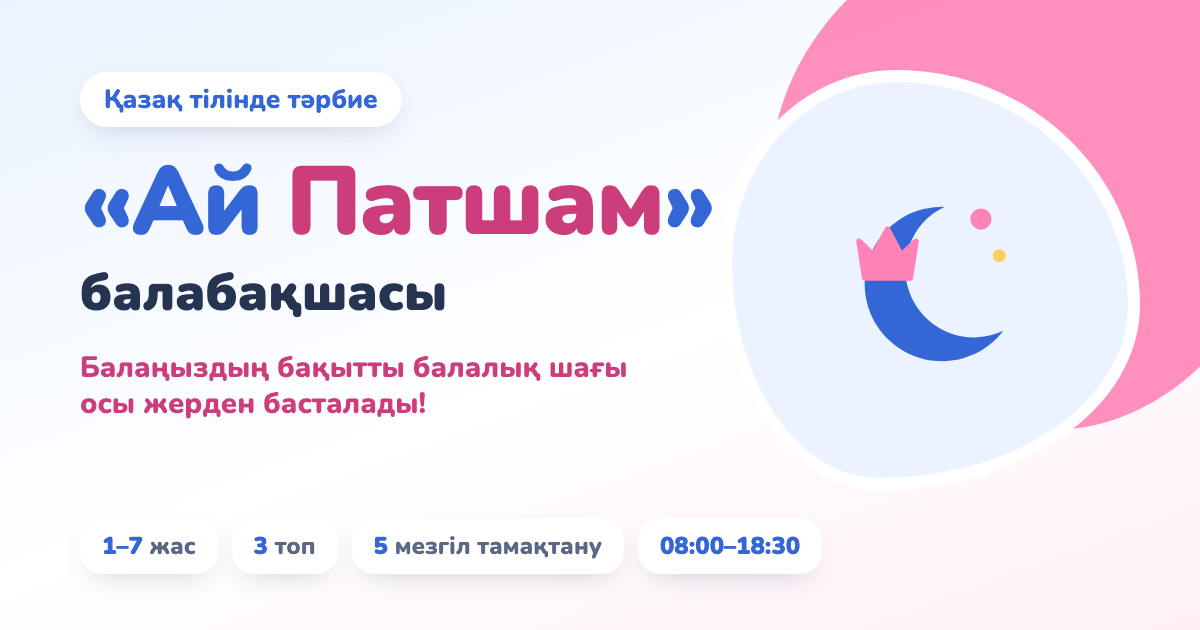
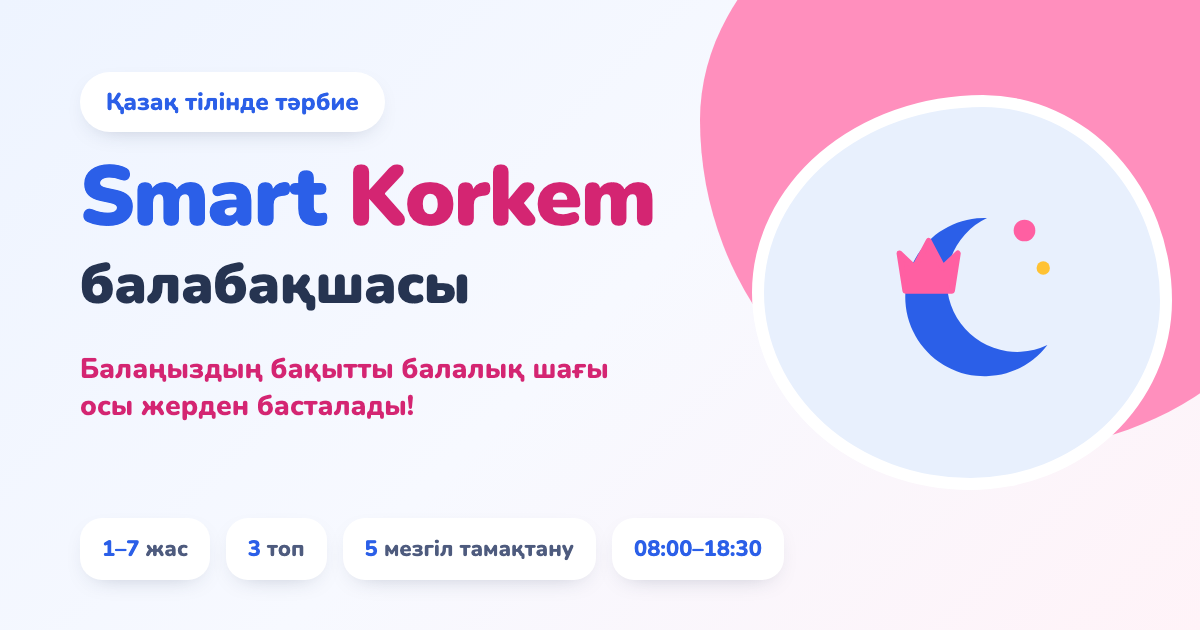
Add kindergarten photos and update gallery

diff --git a/src/data/content.ts b/src/data/content.ts
@@ -96,6 +96,8 @@ export type Dictionary = {
   footer: {
     tagline: string;
     legal: string;
+    /** Атаудың астындағы жазу: «балабақшасы» / «детский сад» */
+    brandSuffix: string;
     rights: string;
     sections: string;
     contacts: string;
@@ -134,13 +136,13 @@ const kk: Dictionary = {
       { value: "5", label: "мезгіл тамақтану" },
     ],
     hoursLabel: "Дс–Жм",
-    photoAlt: "«Ай Патшам» балабақшасы",
+    photoAlt: "Smart Korkem балабақшасы",
   },
   about: {
     eyebrow: "Біз туралы",
     title: "Біз туралы және топтарымыз",
     lead:
-      "«Ай Патшам» — балаларға арналған жылы да жайлы балабақша. Біз әр баланың бақытты, белсенді әрі ізденімпаз болып өсуіне жағдай жасаймыз. Тәрбие мен білім беру қазақ тілінде жүргізіледі, ал күнделікті шығармашылық және танымдық сабақтар балалардың жан-жақты дамуына көмектеседі.",
+      "Smart Korkem — балаларға арналған жылы да жайлы балабақша. Біз әр баланың бақытты, белсенді әрі ізденімпаз болып өсуіне жағдай жасаймыз. Тәрбие мен білім беру қазақ тілінде жүргізіледі, ал күнделікті шығармашылық және танымдық сабақтар балалардың жан-жақты дамуына көмектеседі.",
     features: [
       {
         title: "Қазақ тіліндегі тәрбие",
@@ -163,7 +165,7 @@ const kk: Dictionary = {
         text: "Әр баланың қабілеті мен қызығушылығын ескеріп, оны дамытуға тырысамыз.",
       },
     ],
-    photoAlt: "«Ай Патшам» балабақшасындағы балалар",
+    photoAlt: "Smart Korkem балабақшасындағы балалар",
     groupsTitle: "Біздің топтар",
     groupsIntro: "Балабақшада 1 жастан 7 жасқа дейінгі балаларға арналған 3 топ жұмыс істейді.",
     groupName: (n) => `${n}-топ`,
@@ -210,7 +212,7 @@ const kk: Dictionary = {
     close: "Жабу",
     prev: "Алдыңғы",
     next: "Келесі",
-    photoAlt: (n) => `«Ай Патшам» балабақшасы — фото ${n}`,
+    photoAlt: (n) => `Smart Korkem балабақшасы — фото ${n}`,
   },
   documents: {
     eyebrow: "Ресми ақпарат",
@@ -225,7 +227,7 @@ const kk: Dictionary = {
     eyebrow: "Байланыс",
     title: "Бізбен байланысыңыз",
     subtitle: "Сұрақтарыңызға қуана жауап береміз — жазыңыз немесе қоңырау шалыңыз.",
-    kindergarten: "«Ай Патшам» балабақшасы",
+    kindergarten: "Smart Korkem балабақшасы",
     addressLabel: "Мекенжай",
     address: "Көктем-1 ықшам ауданы, 11-үй",
     phoneLabel: "Телефон",
@@ -240,6 +242,7 @@ const kk: Dictionary = {
   footer: {
     tagline: "Балаңыздың бақытты балалық шағы осы жерден басталады!",
     legal: "«Smart Korkem» ЖШС",
+    brandSuffix: "балабақшасы",
     rights: "Барлық құқықтар қорғалған.",
     sections: "Бөлімдер",
     contacts: "Байланыс",
@@ -278,13 +281,13 @@ const ru: Dictionary = {
       { value: "5", label: "приёмов пищи" },
     ],
     hoursLabel: "Пн–Пт",
-    photoAlt: "Детский сад «Ай Патшам»",
+    photoAlt: "Детский сад Smart Korkem",
   },
   about: {
     eyebrow: "О нас",
     title: "О нас и наши группы",
     lead:
-      "«Ай Патшам» — тёплый и уютный детский сад для детей. Мы создаём условия, чтобы каждый ребёнок рос счастливым, активным и любознательным. Воспитание и обучение ведутся на казахском языке, а ежедневные творческие и познавательные занятия помогают всестороннему развитию детей.",
+      "Smart Korkem — тёплый и уютный детский сад для детей. Мы создаём условия, чтобы каждый ребёнок рос счастливым, активным и любознательным. Воспитание и обучение ведутся на казахском языке, а ежедневные творческие и познавательные занятия помогают всестороннему развитию детей.",
     features: [
       {
         title: "Воспитание на казахском языке",
@@ -307,7 +310,7 @@ const ru: Dictionary = {
         text: "Учитываем способности и интересы каждого ребёнка и помогаем их раскрыть.",
       },
     ],
-    photoAlt: "Дети в детском саду «Ай Патшам»",
+    photoAlt: "Дети в детском саду Smart Korkem",
     groupsTitle: "Наши группы",
     groupsIntro: "В детском саду работают 3 группы для детей от 1 до 7 лет.",
     groupName: (n) => `Группа ${n}`,
@@ -354,7 +357,7 @@ const ru: Dictionary = {
     close: "Закрыть",
     prev: "Предыдущее",
     next: "Следующее",
-    photoAlt: (n) => `Детский сад «Ай Патшам» — фото ${n}`,
+    photoAlt: (n) => `Детский сад Smart Korkem — фото ${n}`,
   },
   documents: {
     eyebrow: "Официальная информация",
@@ -369,7 +372,7 @@ const ru: Dictionary = {
     eyebrow: "Контакты",
     title: "Свяжитесь с нами",
     subtitle: "С радостью ответим на ваши вопросы — пишите или звоните.",
-    kindergarten: "Детский сад «Ай Патшам»",
+    kindergarten: "Детский сад Smart Korkem",
     addressLabel: "Адрес",
     address: "мкр. Көктем-1, дом 11",
     phoneLabel: "Телефон",
@@ -384,6 +387,7 @@ const ru: Dictionary = {
   footer: {
     tagline: "Счастливое детство вашего ребёнка начинается здесь!",
     legal: "ТОО «Smart Korkem»",
+    brandSuffix: "детский сад",
     rights: "Все права защищены.",
     sections: "Разделы",
     contacts: "Контакты",

diff --git a/src/app/layout.tsx b/src/app/layout.tsx
@@ -16,23 +16,23 @@ const siteUrl =
     ? `https://${process.env.VERCEL_PROJECT_PRODUCTION_URL}`
     : "http://localhost:3000");
 
-const title = "«Ай Патшам» балабақшасы — Көктем-1";
+const title = "Smart Korkem балабақшасы — Көктем-1";
 const description =
-  "«Ай Патшам» балабақшасы: 1–7 жас аралығындағы балаларға арналған жайлы орта, қазақ тіліндегі тәрбие, 5 мезгіл тамақтану және қызықты үйірмелер. Дс–Жм, 08:00–18:30.";
+  "Smart Korkem балабақшасы: 1–7 жас аралығындағы балаларға арналған жайлы орта, қазақ тіліндегі тәрбие, 5 мезгіл тамақтану және қызықты үйірмелер. Дс–Жм, 08:00–18:30.";
 
 export const metadata: Metadata = {
   metadataBase: new URL(siteUrl),
   title,
   description,
-  applicationName: "Ай Патшам",
-  keywords: ["Ай Патшам", "балабақша", "детский сад", "Көктем-1", "Smart Korkem", "қазақ тілді балабақша"],
+  applicationName: "Smart Korkem",
+  keywords: ["Smart Korkem", "Smart Korkem балабақшасы", "балабақша", "детский сад", "Көктем-1", "қазақ тілді балабақша"],
   alternates: { canonical: "/" },
   openGraph: {
     type: "website",
     locale: "kk_KZ",
     alternateLocale: ["ru_RU"],
     url: "/",
-    siteName: "Ай Патшам",
+    siteName: "Smart Korkem",
     title,
     description,
   },

diff --git a/src/components/mobile/MobileHeader.tsx b/src/components/mobile/MobileHeader.tsx
@@ -63,13 +63,13 @@ export function MobileHeader({ logo }: { logo: SiteImage | null }) {
           scrolled || open ? "bg-white/95 shadow-[0_8px_24px_-16px_rgb(38_52_81/0.4)] backdrop-blur-xl" : "bg-transparent",
         )}
       >
-        <div className="mx-auto flex h-16 max-w-3xl items-center gap-2 px-4 sm:px-6">
+        <div className="mx-auto flex h-16 max-w-3xl items-center gap-1.5 px-3 min-[360px]:gap-2 min-[360px]:px-4 sm:px-6">
           <a href="#home" aria-label={site.brand} onClick={go("home")} className="mr-auto min-w-0 rounded-2xl">
             <Logo
               logo={logo}
-              className="gap-2 min-[360px]:gap-2.5"
-              markClassName="h-9 w-9 min-[360px]:h-10 min-[360px]:w-10"
-              textClassName="text-[1.1rem] min-[360px]:text-[1.3rem]"
+              className="gap-1.5 min-[390px]:gap-2.5"
+              markClassName="h-8 w-8 min-[360px]:h-9 min-[360px]:w-9 min-[390px]:h-10 min-[390px]:w-10"
+              textClassName="text-[0.95rem] min-[360px]:text-[1.08rem] min-[390px]:text-[1.3rem]"
             />
           </a>
           <LangSwitch id="mobile" className="shrink-0 [&_button]:h-7 [&_button]:px-2 [&_button]:text-[12px] min-[360px]:[&_button]:px-2.5" />

diff --git a/src/components/shared/Logo.tsx b/src/components/shared/Logo.tsx
@@ -34,20 +34,24 @@ export function Logo({
   markClassName,
   textClassName,
   legal,
+  suffix,
 }: {
   logo: SiteImage | null;
   className?: string;
   markClassName?: string;
   textClassName?: string;
   legal?: string;
+  /** Атаудың астындағы жазу, мысалы «балабақшасы» */
+  suffix?: string;
 }) {
   return (
     <span className={cn("flex items-center gap-2.5", className)}>
       <LogoMark logo={logo} className={cn("shrink-0", markClassName ?? "h-11 w-11")} />
       <span className="flex min-w-0 flex-col leading-none">
         <span className={cn("font-display font-black tracking-tight whitespace-nowrap text-blue", textClassName ?? "text-[1.3rem]")}>
-          Ай <span className="text-pink-deep">Патшам</span>
+          Smart <span className="text-pink-deep">Korkem</span>
         </span>
+        {suffix ? <span className="mt-1 font-display text-[15px] font-black text-ink">{suffix}</span> : null}
         {legal ? <span className="mt-1 truncate text-[11px] font-bold text-ink-soft">{legal}</span> : null}
       </span>
     </span>

diff --git a/src/components/shared/HeroTitle.tsx b/src/components/shared/HeroTitle.tsx
@@ -3,14 +3,14 @@
 import { useLang } from "@/lib/i18n";
 import { cn } from "@/lib/cn";
 
-/** «Ай Патшам» балабақшасы / Детский сад «Ай Патшам» — тіл бойынша дұрыс сөз тәртібі */
+/** Smart Korkem балабақшасы / Детский сад Smart Korkem — тіл бойынша дұрыс сөз тәртібі */
 export function HeroTitle({ className, brandClassName, restClassName }: { className?: string; brandClassName?: string; restClassName?: string }) {
   const { t } = useLang();
   return (
     <h1 className={cn("font-display font-black tracking-tight", className)}>
       {t.hero.titleBefore ? <span className={cn("block text-ink", restClassName)}>{t.hero.titleBefore}</span> : null}
       <span className={cn("relative inline-block whitespace-nowrap text-blue", brandClassName)}>
-        «Ай <span className="text-pink-deep">Патшам</span>»
+        Smart <span className="text-pink-deep">Korkem</span>
         <svg
           viewBox="0 0 300 20"
           preserveAspectRatio="none"

diff --git a/src/components/shared/Footer.tsx b/src/components/shared/Footer.tsx
@@ -18,7 +18,7 @@ export function Footer({ logo, year }: { logo: SiteImage | null; year: number })
         <div className="mx-auto max-w-[1320px] px-4 pt-10 pb-[calc(5.5rem+env(safe-area-inset-bottom))] sm:px-6 sm:pb-8 lg:px-10 lg:pt-12 lg:pb-8">
           <div className="grid gap-7 sm:grid-cols-2 lg:grid-cols-[1.3fr_1fr_1fr] lg:gap-10">
             <div>
-              <Logo logo={logo} legal={t.footer.legal} markClassName="h-11 w-11" />
+              <Logo logo={logo} suffix={t.footer.brandSuffix} legal={t.footer.legal} markClassName="h-11 w-11" />
               <p className="mt-3 max-w-sm text-[14.5px] font-semibold text-ink-soft">{t.footer.tagline}</p>
               <div className="mt-4 flex gap-2.5">
                 <a

diff --git a/src/app/page.tsx b/src/app/page.tsx
@@ -38,7 +38,7 @@ export default function Home() {
       <MobileHeader logo={images.logo} />
 
       <main>
-        <section id="home" aria-label="Ай Патшам">
+        <section id="home" aria-label="Smart Korkem">
           <DesktopHero image={images.hero} />
           <MobileHero image={images.hero} />
         </section>

diff --git a/src/data/site.ts b/src/data/site.ts
@@ -5,7 +5,7 @@
  */
 
 export const site = {
-  brand: "Ай Патшам",
+  brand: "Smart Korkem",
   legalName: "Smart Korkem",
 
   phone: {

diff --git a/README.md b/README.md
@@ -1,4 +1,4 @@
-# «Ай Патшам» балабақшасы — лендинг
+# Smart Korkem балабақшасы — лендинг
 
 Next.js 15 (App Router) · React 19 · TypeScript · Tailwind CSS v4 · Motion · Lucide.
 Сайт по умолчанию на казахском, переключатель ҚАЗ / РУС сохраняет выбор в браузере.
